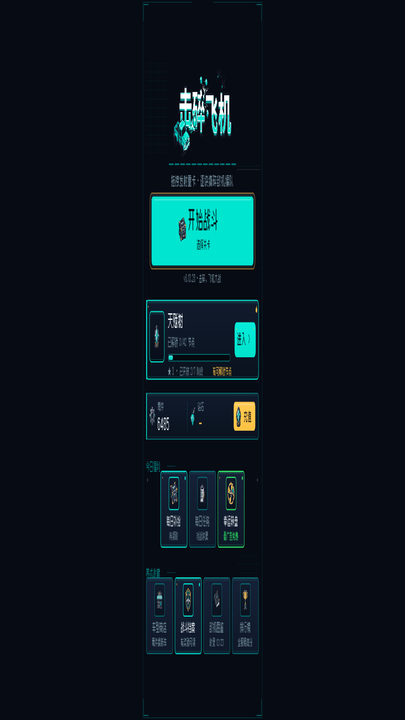
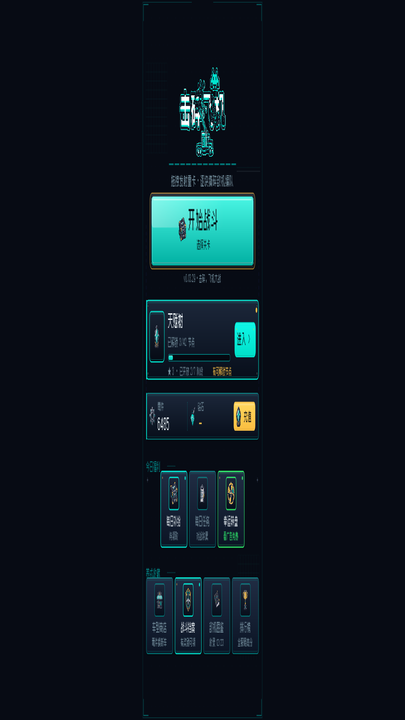
[1791309712665] sync at 2026/10/7 02:01:52

Changed region(s): [[0.3556, 0.275, 0.6519, 0.3972], [0.4148, 0.0917, 0.5926, 0.2139]]

diff --git a/docs/versions.md b/docs/versions.md
@@ -5,6 +5,7 @@
 
 | 版本 | 日期 | 内容 |
 |---|---|---|
+| v0.13.30 | 2026-10-07 | **「界面太便宜」全局质感升级：金属面板 + 有光背景 + 发光窗口壳**（用户「对一个商业化游戏来说现在的大多界面太便宜了」，第一轮后仍「还是不够贵」，共两轮）。方向=**升级共享原语而非逐屏重画**（13 界面全经 `DrawMachinedPanel`/`DrawWindowShell`/`DrawModalBackdrop`/`Button`）。量化根因：旧面板渐变仅 **±5 RGB**（等同纯色）、描边 1.1px、无厚度；背景是整块平色 `C.bg`（占屏 80% 零层次）；CTA 是纯青平板 `DrawRect(C.cyan)` 盖掉下层面板。**第一轮**：`DrawMachinedPanel` 加投影/金属渐变(±16~24)/上缘内高光+下缘内暗边/外描边 1.6/**四角螺钉**（门槛 r≥5 且 w>130 且 h>70，HUD 横条 radius=0 跳过）；主菜单 CTA 改青色金属渐变+斜向光泽+倒角（`GetMenuCtaRect` 未动）；`MetaUI.Button` primary/ad 改亮→深渐变+倒角。**第二轮**：`DrawModalBackdrop` 改**径向渐变底**（`nvgRadialGradient`）+ 顶部青辉光 + 四角暗角；`DrawMenu` 同款；`DrawWindowShell` 加**外辉光**（`nvgBoxGradient`）+ 标题栏受光横带 + 内容区内凹；`MetaUI.Shell` 标题栏横带；新增 `MetaUI.SectionHeader`（青竖条+淡出下划线）。⚠ **不加顶层 local**（Scene3DBackend 196/200、Game 200/200，AB-166），全部原地改写函数体。验证：官方多人 build+预览上传（两轮）、LSP 两文件 **0 Error**、真渲染 13 界面零 Lua/overlay 错误、像素取证卡片渐变跨度 ~19 级。教训→AB-177（先找共用原语）/AB-177b（「贵」=层次与柔光，不是更多装饰线）。BUILD_VERSION/大厅→0.13.30。 |
 | v0.13.29 | 2026-10-07 | **升级卡 UI 自适应：数值条折行 + 卡高 300→340 + 详情降字号**（用户发升级面板截图 + 一句「卡片UI适应性优化？」）。根因：数值条文案是**数据驱动**的（`Game.lua` 的 `UPGRADE_POOL[].value`），长度从 `+1 格`(4) 到 `伤害+3 / 弹速+10% / 受创+1`(18 字符) 不等，而 `DrawUpgradeCard` 固定 16px 单行居中、无宽度约束 → 最长两张（玻璃巨炮/装甲强化）溢出卡片并压到邻卡。改动（全在 `Scene3DBackend.lua`）：①新增 `MeasurePixelWidth`（设计空间实测宽度，`nvgResetTransform` 后测，与 `WrapTextLines` 同约定）；②新增 `SplitValueLines`——**先按 ` / ` 拆语义段再贪心打包**（塞不下才换行，**不在段中间切断**，避免 `弹速+10%` 被切成 `弹速+1`/`0% ...`），16px 下折出 3 行以上才降档到 14px 重排，返回 `lines,size`；③数值条**按行数动态定高**（`8+n*19`）、底部锚点 `y+cardH-34` 上推、详情区与说明条自动避让；④**卡高 300→340**（带说明条的卡要装下 详情 2 行 + 说明条 + 数值条 2 行，300 会把详情挤成 1 行并**截断文案**）；⑤详情**字号自适应**（17px 装不下降 15px、行距 25→22）。命中几何由 `GetUpgradePanelLayout`→`GetUpgradeCardLayout` 单点派生（`client_main` 零常量），改卡高即同步。验证：官方多人 build+预览上传、LSP workspace **0 Error**（21 文件 818 诊断）、`probe_upcard3`（覆写为最坏组合玻璃巨炮/装甲强化/穿甲弹头）截图确认数值条 2 行不溢出 + 说明条不被压 + 详情 2 行完整、`probe_upcard2` 解锁车卡正常、`probe_uphit` **PASS**（三卡中心/上下缘/旧下缘 680/角标/两按钮全命中）、`probe_render` 冒烟零 Lua/overlay 错误。教训→AB-174（数据驱动文案不能假设长度）/AB-175（截断行数是静默丢信息，不是布局手段）/AB-176（命中探针必须推进 `Game.Update` 才过窗口入场动画逆变换）。BUILD_VERSION/大厅→0.13.29。 |
 | v0.13.28 | 2026-10-02 | **飞行尾迹整条再向下偏半个格子（观感）**（用户「为了保证观感，拖尾额外向下移动半个格子单位距离」）。`Renderer3D.SyncVehicleTrails` 在采样点写入 `trailSamples_` **之前**统一 `pos.y -= halfBrick * WORLD_SCALE`（游戏 Y 向下为正 → 世界 Y 减）；半格值 `halfBrick = brickSize * 0.5`，**优先取快照权威 `s.brickSize`**（`Game.GetSnapshot` 新增 `s.brickSize = GetBrickSize(wave)`，随关卡 14/15/16、波间隙无敌机时也稳定），缺省回退基准 16 的半格。⚠ 偏移必须在**采样点存储之前**——放几何构建里会让车头下移而历史点不动、尾迹尾部脱离车尾。⚠ 第一版取 `game.veggies[1].brickSize` 在开局 3 秒进关过渡内为空 → 退到回退值，故改用快照权威值（AB-173，AB-171 同族）。验证：官方多人 build+预览上传、LSP workspace **0 Error**（21 文件 814 诊断）、真渲染探针 `probe_trailoff` 插桩实测 `snapBS=14 → halfBrick=7.0 → gameDelta=7.00`（正好半格）、干净冒烟零 Lua/overlay/VertexBuffer/LoadChunk 错误。BUILD_VERSION/大厅 0.13.28（版本号由并发会话推进，本批未动）。 |
 | v0.13.28 | 2026-10-02 | **常驻通用卡重做：改作用对象，让关1 就有用**（用户「通用卡（常驻）大类的用处均过低了」，澄清为「在第一关等低难度没有明显帮助」，选定「改作用对象」）。根因：关1~3 砖块 hp=1、玩家几乎不掉血、单行越线伤害被 `max(1,…)` 钳成 1 → `damage +1` 溢出、`repair 回血 25` 无处可用、`armor -1` 被下限完全钳掉、`glass_cannon +2` 同样溢出。重做（只改 `Game.lua` 规则层）：①穿甲弹头 = 伤害 +1 **且每击碎一块 +1 经验**（`brickXpFlat`）；②前线维修 = **生命上限 +12 且立即回 12**（`maxHpBonus` 并入 `GetMaxBaseHp`，永久收益）；③装甲强化 = **受创 -20%/级（百分比 `armorReduce`）+ 零件 +8%/级（`partsMul`）**，上限 2→3；④玻璃巨炮 = 伤害 +2→**+3** 且追加**弹速 +10%/级（`launchSpeedMul`）**。新增 5 个 `BALL_TUNING` 字段；`partsMul` 在四处产出点统一乘。⚠ 浮点防线：`partsMul` 让 `partsEarned` 变浮点，而渲染层用 `%d` 格式化 `runParts` → `GetRunParts`/`SettleParts`/快照 `partsEarned` 三处出口一律 `math.floor`。⚠ `repair` 闭包读后定义的 `GetMaxBaseHp` → 改前向声明（AB-100 同族，LSP 抓到）。⚠ `maxHpBonus` 复位须早于 `ResetGame` 的 `baseHp = GetMaxBaseHp()`。验证：官方多人 build+预览上传、LSP 0 Error、`probe_common` **7/7 PASS**（关1 砖块 hp=1 基线；四张卡实测 brickXpFlat=1 / partsMul=1.08 / maxHp 100→112 / launchSpeedMul=1.10；零件在 partsMul 下仍为整数 runParts=256；装甲减伤 32 行越线 16→13）、`probe_growth` 回归 PASS（顺手更新其陈旧血量断言）、真渲染 `probe_render` 零 Lua/overlay 错误。教训→AB-171。BUILD_VERSION/大厅 0.13.28（版本号由并发会话推进，本批未动）。 |

diff --git a/CLAUDE.md b/CLAUDE.md
@@ -3,6 +3,16 @@
 > AI 自维护，每次 POST 自动更新。详细规则见 memory-system skill。
 
 ## 当前状态
+- 版本: 0.13.30（**「界面太便宜」全局质感升级：金属面板 + 有光背景 + 发光窗口壳**；两轮迭代）：
+  - **用户原话**「对一个商业化游戏来说现在的大多界面太便宜了」→ 第一轮改完仍「还是不够贵」→ 第二轮加码。**方向**：沿用 dark-tech 机加工金属（不引入新风格），**升级共享原语而非逐屏重画**——13 个界面全部经 `DrawMachinedPanel`/`DrawWindowShell`/`DrawModalBackdrop`/`Button`，改这几处即全屏生效。
+  - **根因（量化）**：旧 `DrawMachinedPanel` 的渐变只有 **±5 RGB**（肉眼等同纯色）、描边 1.1px、无厚度；`DrawModalBackdrop`/`DrawMenu` 是**一整块平色 C.bg**（占屏 80% 却零层次）；CTA 是一块**纯青平板** `DrawRect(C.cyan)`（把下面的机加工面板整块盖掉）；`Button` 是平色 + 3px 竖条。
+  - **第一轮**：①`DrawMachinedPanel` → 投影落地 + 金属渐变（±16/19/24）+ 上缘内高光/下缘内暗边 + 外描边 1.6 + **四角螺钉**（r≥5 且 w>130 且 h>70；HUD 横条 radius=0 天然跳过）②主菜单 CTA → 青色金属渐变 + 斜向光泽 + 倒角（`GetMenuCtaRect` 命中几何未动）③`MetaUI.Button` primary/ad → 亮→深渐变 + 倒角。
+  - **第二轮（用户「还是不够贵」后加码）**：①`DrawModalBackdrop` → **径向渐变底**（`nvgRadialGradient` 中心偏亮深海军蓝→四周近黑）+ 顶部青色环境辉光 + 四角暗角；②`DrawMenu` 背景同款径向 + 辉光；③`DrawWindowShell` → **外辉光**（`nvgBoxGradient` 青柔光）+ 标题栏受光横带 + 内容区内凹暗角；④`MetaUI.Shell` 标题栏受光渐变横带；⑤新增 `MetaUI.SectionHeader`（青竖条 + 向右淡出渐变下划线）替换店铺分区平色小字。
+  - ⚠ **不加顶层 local**：`Scene3DBackend` 196/200、`Game` 200/200（AB-166），全部原地改写现有函数体 / 用局部量。`MetaUI` 新增 `SectionHeader` 是模块级 local（34→35，余量充足）。
+  - ⚠ **`nvgBoxGradient`/`nvgRadialGradient` 可用**（`.emmylua/NanoVG.d.lua` 已声明）——「贵」的关键是**真实柔光**（径向/盒式渐变），线性渐变做不出。
+  - **验证**：官方多人 build+预览上传 ✅（两轮各一次）；LSP 两文件 **0 Error**；真渲染探针 13 界面全渲零 Lua/overlay 错误；像素取证：卡片内部竖向 `(26,37,58)→(13,22,39)` 跨度 ~19 级（旧版更窄更暗）。⚠ 待 Preview 真机观感。
+  - ⚠ **教训（AB-177）**：用户说「不够贵/太便宜」时，**先找共用原语**——13 个界面共用的 `DrawMachinedPanel`/背景/按钮才是「廉价」的最大单一来源，逐屏重画是低杠杆；**「贵」的物理来源是层次**（渐变跨度 / 柔光 / 厚度 / 焦点），不是更多装饰线条。
+
 - 版本: 0.13.29（**升级卡 UI 自适应：数值条折行 + 卡高 300→340 + 详情降字号**）：
   - **用户反馈（截图 + 一句「卡片UI适应性优化？」）**：升级面板第 1 张卡（装甲强化）的数值条文案 `-20% 受创 / +8% 零件` 左右两侧**溢出卡片边界**，压到相邻卡。
   - **根因**：数值条文案是**数据驱动**的（`Game.lua` 的 `UPGRADE_POOL[].value`），长度从 5 字（`+1 格`）到 32 字节（`伤害+3 / 弹速+10% / 受创+1`）不等，而 `DrawUpgradeCard` 固定 **16px 单行居中、无任何宽度约束**——最长的两张（玻璃巨炮、装甲强化）必然溢出。
@@ -716,6 +726,13 @@
 - ⚠ **「不新增 gameState」是加过渡/弹窗态的首选**（v0.13.24）：本项目新增可弹窗状态要在 `UpdateUiState`/`RenderOverlay`/六个输入处理器/结算块全部补分支（v0.13.4 stagewin 的教训），漏一处即「点不动/残影/入库丢」。进关过渡只需一个 `introTimer`（`Update` 里 `>0` 就冻结玩法并 return），零状态分支改动。**能用标志位就别加状态**。
 - ⚠ **模块不要依赖「后端暴露 vg」**（v0.13.24）：`Scene3DBackend` 未导出 vg，新绘制模块改为**用 Draw 传入的 ctx 懒加载**图片句柄（NanoVG 上下文是进程级单例，ctx 即 vg），既免去后端加访问器，也避免本地验证时的注入顺序问题。
 - ⚠ **`batch_generate_images` 会给草案也生成 `.meta`，且清理时容易漏**（v0.13.24）：生成后 `mv *.png` 出 assets 时，同名 `*.png.meta` **不会跟着走**（或跟走了但草稿目录里留下），assets 里会残留 `digit_x_<时间戳>.png.meta` 这类孤儿。清理时用 `rm assets/image/<batch>_*_2026*.png.meta` 一并扫掉，再确认 `ls assets/image/<batch>_*` 为空。
+
+## 本批次新增避雷（v0.13.30 界面「不够贵」全局质感升级）
+- 🔴 **AB-177：用户说「界面太便宜/不够贵」时，先找共用原语，别逐屏重画（v0.13.30 用户两轮点名）**：本项目 13 个界面**全部**经 `DrawMachinedPanel`（9 直调 + `DrawBluePanel` 6 + `MetaUI.D.panel` 22）、`DrawWindowShell`、`DrawModalBackdrop`、`MetaUI.Button` 渲染——所以「廉价感」的最大单一来源是这几个函数，改它们 = 全屏生效，且**签名不变、调用点零改动**（也绕开大文件 local 上限）。逐屏重画是低杠杆。
+- 🔴 **AB-177b：「贵」的物理来源是层次，不是更多装饰线条（v0.13.30）**：第一轮只把渐变从 ±5 提到 ±19、加螺钉，用户仍说「还是不够贵」；第二轮加了**真实柔光**（`nvgRadialGradient` 径向底 + `nvgBoxGradient` 窗口外辉光）与**环境光**（顶部青辉光 + 四角暗角）后才成立。量化判据：面板内部竖向渐变跨度（旧 ~7-15 级 → 新 ~19 级）、背景不再是单一色值、窗口有外发光。**先补「光/厚度/焦点」，再谈装饰**。
+- ⚠ **`nvgRadialGradient` / `nvgBoxGradient` 本项目可用**（`.emmylua/NanoVG.d.lua` 已声明 `nvgBoxGradient(ctx,x,y,w,h,r,f,icol,ocol)`、`nvgRadialGradient(ctx,cx,cy,inr,outr,icol,ocol)`）；线性渐变做不出柔光/暗角，要「贵」就用这两个。大范围单次 fill，无性能问题。
+- ⚠ **改共享原语时保持签名与命中几何不变**：CTA 改画法但 `GetMenuCtaRect` 未动；`DrawMachinedPanel` 加装饰但参数表未动；`Shell` 加标题横带但 `GetShellLayout` 未动——这样所有命中探针与调用点都不受影响。**视觉升级不该动几何**。
+- ⚠ **螺钉/装饰要有尺寸门槛**：四角螺钉只在 `r>=5 且 w>130 且 h>70` 画，否则小按钮/细条上会糊成一团；HUD 横条 `radius=0` 天然跳过。装饰门槛没设好会把小控件画脏。
 
 ## 避雷清单
 

diff --git a/.agent/memory-runtime/antibodies.md b/.agent/memory-runtime/antibodies.md
@@ -261,3 +261,9 @@
 - [AB-171] [跨项目][「开局自动拥有」是白名单：加初始内容就加一行，别去改调用点或门控] 本项目天赋树有 `TalentCatalog.AUTO_OWNED` 白名单控制「哪些节点开局即已解锁」。v0.13.19 把初始车从分裂车改成加速车时它被设成 `{ speed_1 }`，于是**分裂车的「允许局内出场」节点悄悄变成要花零件买**；用户提出「分裂车天赋树玩家一开始也解锁」后才补上 `normal_1`。**规则**：这类"开局自带"清单要当成**单一事实来源**，增删初始内容只改清单本身（`EnsureAutoOwnedTalents` 之类遍历整表的调用点零改动）。⚠ 配套两点：①**自动解锁要按"阶"给，不要顺带放开整条线**——`ballUnlock`（出场资格，1 阶）可以自动给，`ballCard`（专属卡资格，2 阶）自动给会一次性放开整条车线，通常不该给；探针必须断言「自动解锁**没有**顺带放开下一阶」。②**玩法探针要先推进过开局冻结期再取对象**——本项目 v0.13.24 起开局有 `INTRO_SECONDS=3` 冻结，`start` 后立刻取 `veggies[1]` 是 nil，探针报 `attempt to index a nil value`；模板要改成「start → `for _=1,200 do Game.Update(1/30) end` → 再取对象」，**旧探针模板在引入过渡动画后就过时了**。（击碎，飞机大战/v0.13.28）
 
 - [AB-173] [跨项目][「按格偏移」要取「关卡权威格值」，别取「场上实体字段」] 用户要求飞行尾迹「额外向下移动半个格子」。第一版用 `game.veggies[1].brickSize`（场上第一架敌机的格子尺寸）取格值——但**开局 3 秒进关过渡内 `veggies` 为空**，插桩实测退到回退值 8 而非第 1 关真实半格 7。修法：让规则层快照暴露 `s.brickSize = GetBrickSize(wave)`（**按波次算、与有无敌机无关**），表现层优先读快照、缺省才回退。**规则**：凡是「按当前关卡 / 格子 / 波次」的表现偏移或尺寸，一律走快照权威值，**不要从在场实体反推**——实体是间歇的（波间隙、过渡期、被清空时都不在），关卡是持续的；用实体字段必然在某些时刻取到 nil 或错误回退。⚠ 配套：**偏移要作用在「采样点写入之前」，不能作用在「几何构建时」**——本项目尾迹几何用历史采样点 + 实时车尾拼三角带，若在构建循环里下移，车头会下移而历史点不动 → 尾迹尾部脱离车尾。保证头尾一致平移的做法：采样点落存储之前统一偏移。（击碎，飞机大战/v0.13.28）
+
+## AB-177（v0.13.30）界面「太便宜/不够贵」→ 先找共用原语，别逐屏重画
+- **现象**：用户说「对一个商业化游戏来说现在的大多界面太便宜了」，第一轮改完仍「还是不够贵」。
+- **做法**：先 grep 出**所有界面共用的绘制原语**（本项目 `DrawMachinedPanel`/`DrawWindowShell`/`DrawModalBackdrop`/`MetaUI.Button` 覆盖全部 13 个界面），改这几个 = 全屏生效，且签名/命中几何不变、调用点零改动。
+- **「贵」的物理来源是层次**：渐变跨度（旧 ±5 RGB 等同纯色 → 新 ~19 级）、**真实柔光**（`nvgRadialGradient` 径向底 + `nvgBoxGradient` 窗口外辉光）、厚度（投影/倒角/受光斜面）、焦点（暗角）。第一轮只加渐变与螺钉不够；第二轮补柔光与环境光后才成立。**先补光/厚度/焦点，再谈装饰线**。
+- **约束**：大文件顶层 local 逼近上限（Scene3DBackend 196/200、Game 200/200）→ 原地改写函数体、用局部量，别加模块级 local。装饰加尺寸门槛（螺钉只在 r≥5 且 w>130 且 h>70）。

diff --git a/docs/memory-index.md b/docs/memory-index.md
@@ -1,3 +1,4 @@
+- 当前版本: 0.13.30（界面「太便宜」全局质感升级：金属面板 + 有光背景 + 发光窗口壳；两轮迭代；AB-177）
 <!-- RECOVERY INSTRUCTIONS -->
 <!-- 新会话 AI 读到此文件时： -->
 <!-- 0. CLAUDE.md 已自动注入 → 已知当前状态和关键避雷 -->
